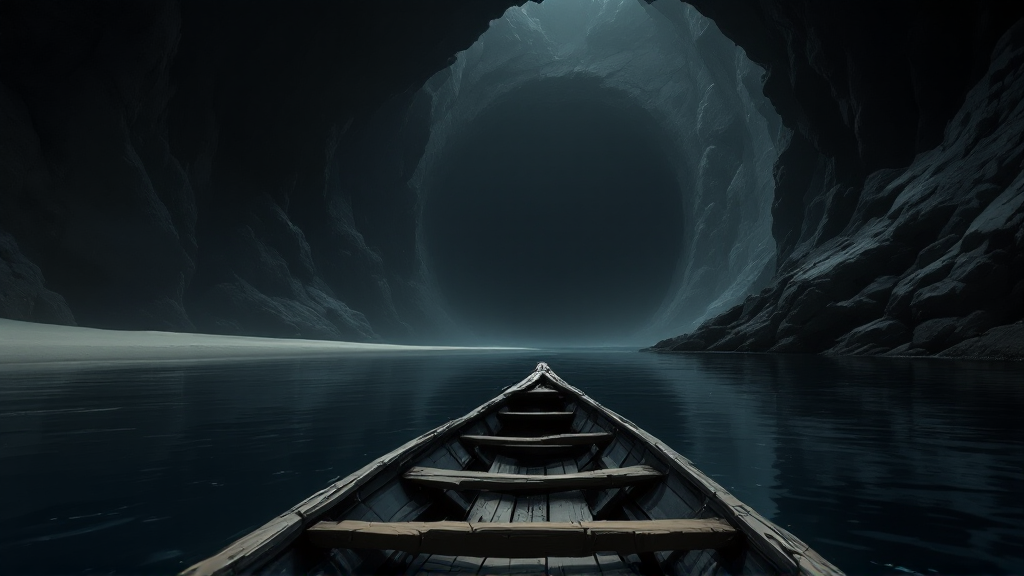
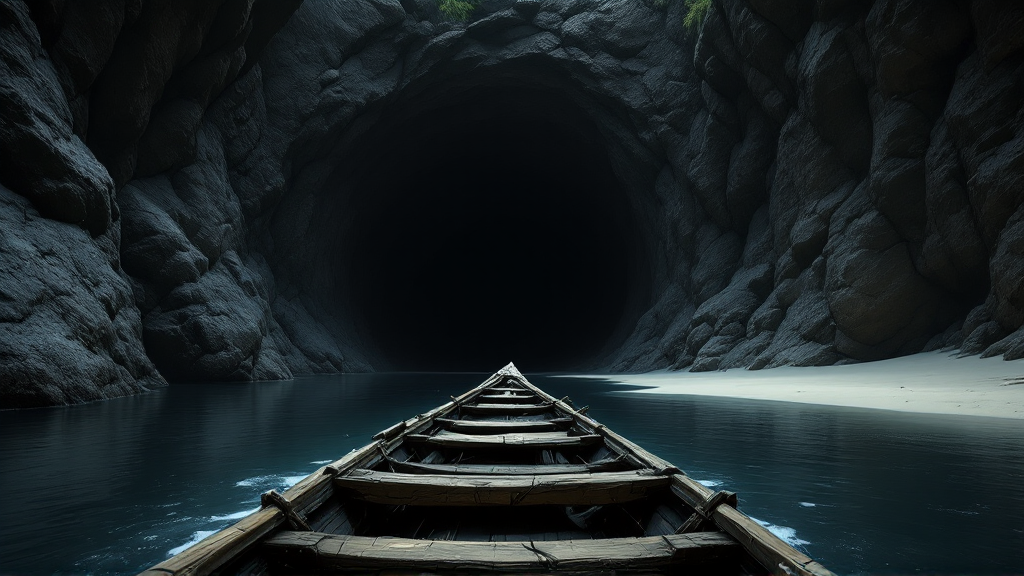
fix: the river is open air — beaches and boat run repainted under sky
User: 'something wrong with the prompt — it's trying to make every
single image in a cave.' Correct: the pipeline's river biome contract
said 'no sky, no daylight' — my inference, not Brown's text, which
never places the beach underground. River biome rewritten as an open
gorge (sky, hazy daylight, cliff walls, tunnel mouths); rooms 6-15
repainted and verified under the new contract. Rooms 14/15 flux kept
painting a literal wooden sign reading 'Middle GROTO' (verifier
refused thrice for legible text) — they carry the adjacent river
stretch instead. Art version a=4.

diff --git a/server/routes/game.js b/server/routes/game.js
@@ -977,7 +977,7 @@ function roomResponse({ adventure, run, character, text = null, prefix = null, e
     events,
     text: prefix ? `${prefix}\n\n${body}` : body,
     choices: choicesForRun(adventure, run, character),
-    state: { phase: 'adventure', locationTitle: room?.name ?? adventure?.adventure?.name ?? 'Adventure', background: `scenes/${adventure?.adventure?.id}/room-${room?.room_number}.png?a=3`, character, adventureRun: run, room, entities, items: withReadState(items, run), combat: combatStateFor({ adventure, run, character }), map: mapFor(adventure, run, character) },
+    state: { phase: 'adventure', locationTitle: room?.name ?? adventure?.adventure?.name ?? 'Adventure', background: `scenes/${adventure?.adventure?.id}/room-${room?.room_number}.png?a=4`, character, adventureRun: run, room, entities, items: withReadState(items, run), combat: combatStateFor({ adventure, run, character }), map: mapFor(adventure, run, character) },
   });
 }
 
